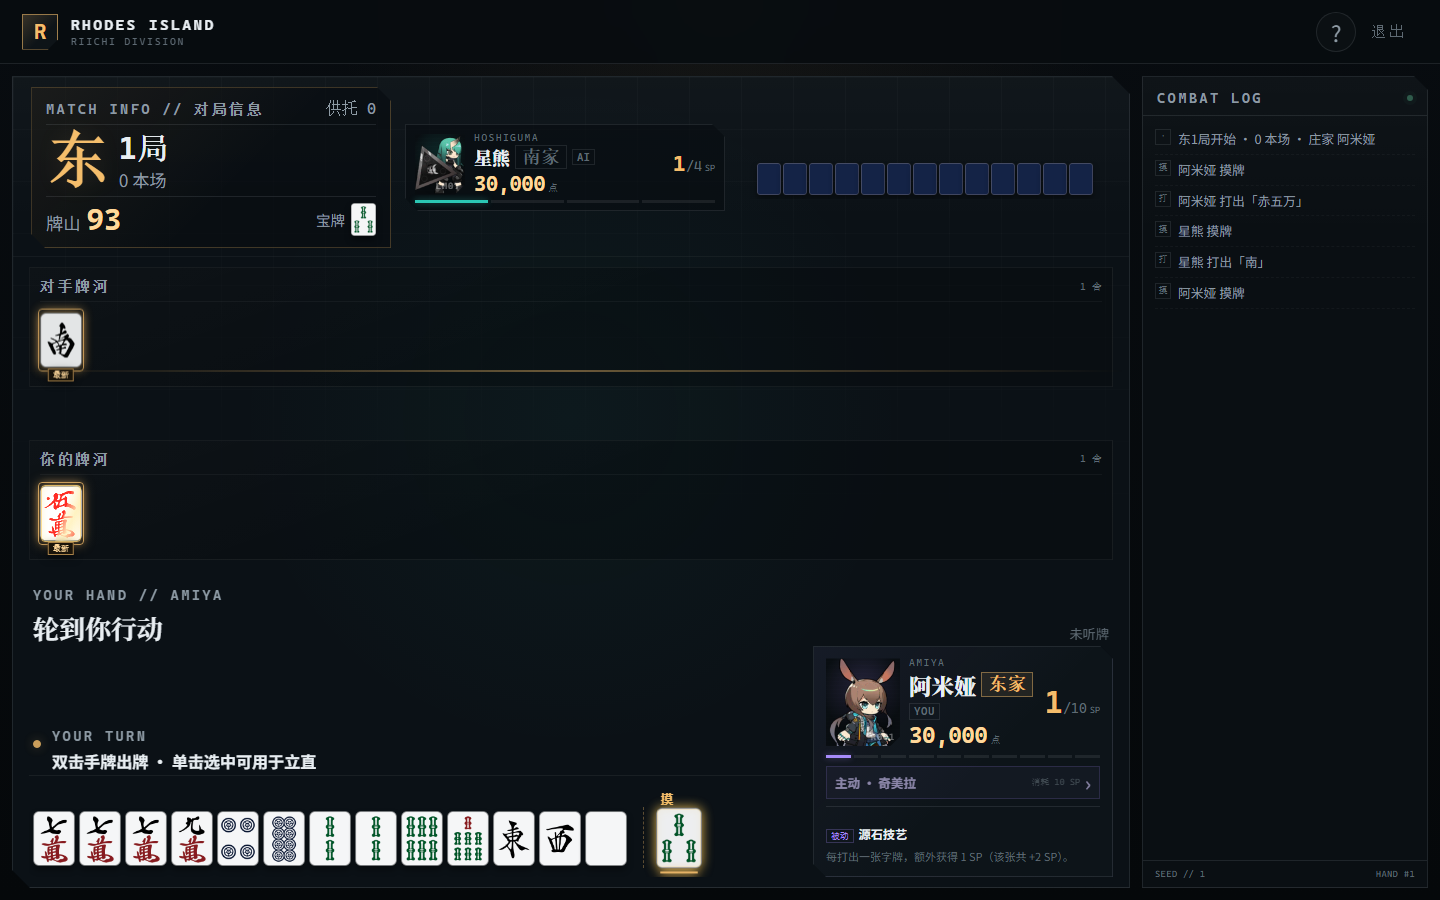
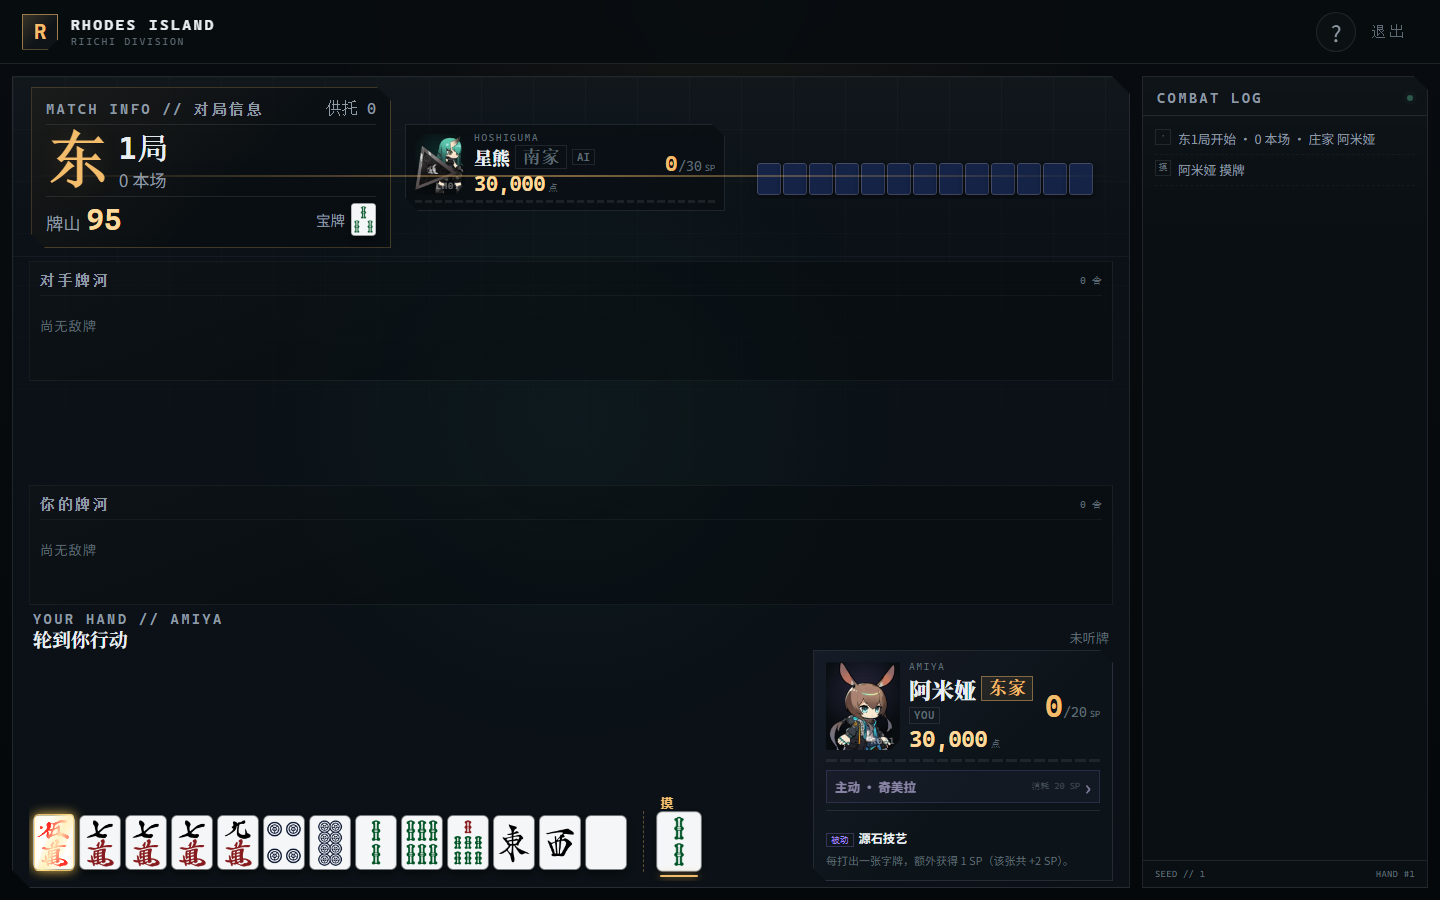
牌河修复+README修复

diff --git a/src/ui/Table.tsx b/src/ui/Table.tsx
@@ -146,6 +146,22 @@ export function Table({
   const riichiCandidates = humanTurn
     ? legalDiscards.filter((tile) => canDeclareRiichi(state, 0, tile))
     : [];
+  const hasHandActions =
+    reaction !== null ||
+    riichiMode ||
+    (humanTurn &&
+      (tsumo !== null ||
+        riichiCandidates.length > 0 ||
+        ankanOptions.length > 0 ||
+        kakanOptions.length > 0 ||
+        nineReady));
+  const aiRiverRows = Math.ceil(ai.river.length / 20);
+  const humanRiverRows = Math.ceil(human.river.length / 20);
+  const riverRows = aiRiverRows + humanRiverRows;
+  const heavyRivers =
+    Math.max(aiRiverRows, humanRiverRows) >= 4 ||
+    riverRows > 4 ||
+    (Math.max(aiRiverRows, humanRiverRows) >= 3 && hasHandActions);
   const tenpai = getPlayerTenpai(state, 0);
   const dora = getRevealedDora(state);
   const [hoverTile, setHoverTile] = useState<TileType | null>(null);
@@ -215,7 +231,7 @@ export function Table({
       </header>
 
       <main className="table-layout">
-        <section className="table-surface">
+        <section className={`table-surface ${heavyRivers ? 'table-surface--heavy-rivers' : ''}`}>
           <div className="table-scanline" aria-hidden="true" />
           <div className="opponent-zone">
             <section className="match-info-panel" aria-label="对局信息">
@@ -280,10 +296,10 @@ export function Table({
 
           <div className="player-zone">
             <div className="player-meta-row">
-              <div className="player-title">
+              <div className="player-title" title={statusText}>
                 <span className="micro-label">YOUR HAND // {human.operator.toUpperCase()}</span>
-                <div className="player-title-line">
-                  <strong>{humanTurn ? '轮到你行动' : '等待对家'}</strong>
+                <div className="player-status-inline">
+                  <strong>{humanTurn ? '轮到你行动' : reaction ? '可以响应' : '等待对家'}</strong>
                   <StatusChips state={state} />
                 </div>
               </div>
@@ -316,18 +332,9 @@ export function Table({
 
             <div className="player-main">
               <div className="hand-cluster">
-                <div className={`hand-action-row ${reaction ? 'is-reaction' : ''}`}>
-                  <div className="command-status">
-                    <span className={`status-light ${humanTurn ? 'is-live' : ''} ${reaction ? 'is-alert' : ''}`} />
-                    <div>
-                      <span className="micro-label">
-                        {reaction ? 'REACTION WINDOW' : humanTurn ? 'YOUR TURN' : 'STANDBY'}
-                      </span>
-                      <strong>{statusText}</strong>
-                    </div>
-                  </div>
-
-                  <div className="hand-actions">
+                {hasHandActions && (
+                  <div className={`hand-action-row ${reaction ? 'is-reaction' : ''}`}>
+                    <div className="hand-actions">
                     {reaction ? (
                       <>
                         {reaction.canRon && (
@@ -407,6 +414,7 @@ export function Table({
                     )}
                   </div>
                 </div>
+                )}
 
                 <Hand
                   player={human}

diff --git a/src/tests/state.test.ts b/src/tests/state.test.ts
@@ -1,4 +1,4 @@
-import { describe, expect, it } from 'vitest';
+import { describe, expect, it } from 'vitest';
 import {
   canDeclareRiichi,
   callChi,
@@ -14,7 +14,7 @@ import {
   startNextHand,
   canDeclareNineTerminals,
 } from '../game/state';
-import { activateSkill, validateSkillActivation } from '../game/skills';
+import { activateSkill, spCapFor, validateSkillActivation } from '../game/skills';
 import { getWinningTiles, isTenpai } from '../game/rules';
 import type { GameState, Meld, PlayerIndex, Tile } from '../game/types';
 
@@ -74,9 +74,9 @@ describe('对局状态机与立直', () => {
 
   it('SP 不会超过主动技能消耗上限', () => {
     const state = rig(startGame({ seed: 12, playerOperator: 'amiya' }), 0, [0, 1, 2, 3, 4, 5, 6, 7, 8, 9, 10, 11, 12, 27], 27);
-    state.players[0].sp = 10;
+    state.players[0].sp = spCapFor('amiya');
     const next = discardTile(state, 0, 27);
-    expect(next.players[0].sp).toBe(10);
+    expect(next.players[0].sp).toBe(spCapFor('amiya'));
   });
 
   it('立直支付 1000 点、供托 +1，且立直后只能摸切', () => {
@@ -128,7 +128,7 @@ describe('干员技能', () => {
     );
     const target = t(2, 5);
     state.wall = [t(0, 0), target, ...state.wall.filter((tile) => tile !== target && tile !== t(2, 8))];
-    state.players[0].sp = 10;
+    state.players[0].sp = spCapFor('amiya');
     state.players[0].skillUsed = false;
     const validation = validateSkillActivation(state, 0, { tile: target });
     expect(validation.ok).toBe(true);
@@ -160,7 +160,7 @@ describe('干员技能', () => {
       t(2, 8),
     );
     state.players[0].riichi = true;
-    state.players[0].sp = 10;
+    state.players[0].sp = spCapFor('amiya');
     state.wall = [t(2, 5), ...state.wall];
     expect(validateSkillActivation(state, 0, { tile: t(2, 5) }).ok).toBe(false);
   });
@@ -172,7 +172,7 @@ describe('干员技能', () => {
       [...tenpaiThirteen, t(2, 8)],
       t(2, 8),
     );
-    state.players[0].sp = 10;
+    state.players[0].sp = spCapFor('amiya');
     state.wall = state.wall.filter((tile) => tile !== 5);
     expect(validateSkillActivation(state, 0, { tile: 5 }).ok).toBe(false);
   });
@@ -184,7 +184,7 @@ describe('干员技能', () => {
       [...tenpaiThirteen, t(2, 8)],
       t(2, 8),
     );
-    state.players[0].sp = 4;
+    state.players[0].sp = spCapFor('hoshiguma');
     state = activateSkill(state, 0);
     expect(state.players[0].sp).toBe(0);
     expect(state.players[0].skillUsed).toBe(true);
@@ -199,7 +199,7 @@ describe('干员技能', () => {
       [0, 1, 2, 3, 4, 5, 6, 7, 8, 9, 10, 11, 12, 27],
       27,
     );
-    state.players[0].sp = 4;
+    state.players[0].sp = spCapFor('hoshiguma');
     state = activateSkill(state, 0);
     state.players[0].hand = sorted([0, 0, 2, 3, 4, 5, 6, 7, 8, 9, 10, 11, 12]);
     state.players[1].hand = sorted([0, 1, 2, 3, 4, 5, 6, 7, 8, 9, 10, 11, 12, 0]);
@@ -392,3 +392,4 @@ describe('规则辅助', () => {
     expect(hand.length + melds.length * 3).toBe(14);
   });
 });
+

diff --git a/src/styles.css b/src/styles.css
@@ -5410,3 +5410,81 @@ html.in-game {
     flex-direction: column;
   }
 }
+
+/* =========================================================
+   ROUND 8: compact hand header; tall river fallback
+   ========================================================= */
+
+.player-zone {
+  padding: 2px 16px 6px;
+}
+
+.player-title {
+  display: flex;
+  flex-direction: column;
+  gap: 1px;
+  min-width: 0;
+}
+
+.player-status-inline {
+  display: flex;
+  align-items: center;
+  flex-wrap: wrap;
+  gap: 7px;
+  min-width: 0;
+}
+
+.player-status-inline > strong {
+  font-family: "Noto Serif SC", "Songti SC", serif;
+  font-size: 0.86rem;
+  line-height: 1.15;
+  color: var(--text);
+  white-space: nowrap;
+}
+
+.player-status-inline .status-chips {
+  gap: 3px;
+}
+
+.player-status-inline .chip {
+  font-size: 0.48rem;
+  padding: 1px 4px;
+}
+
+.hand-action-row {
+  min-height: 40px;
+  padding-top: 2px;
+  padding-bottom: 2px;
+}
+
+.hand-action-row .hand-actions {
+  margin-left: auto;
+}
+
+@media (min-width: 1021px) {
+  .center-grid--rivers {
+    gap: 5px;
+    padding-top: 4px;
+    padding-bottom: 4px;
+  }
+
+  .center-grid--rivers .river-grid {
+    padding-top: 5px;
+  }
+}
+
+/* If both rivers become extremely long, let the table grow and the page scroll
+   instead of letting the lower river overlap the hand area. */
+.game-screen:has(.table-surface--heavy-rivers) {
+  height: auto;
+  min-height: 100vh;
+  overflow-y: auto;
+}
+
+.table-surface--heavy-rivers {
+  min-height: calc(100vh - 88px);
+}
+
+.table-surface--heavy-rivers .center-grid--rivers {
+  flex: 0 0 auto;
+}

diff --git a/src/ui/River.tsx b/src/ui/River.tsx
@@ -37,7 +37,7 @@ export function River({ river, label, opponent, hoverTile, onHoverTile, doraTile
               glowing={isDoraOrAka(record.tile, doraTiles)}
               highlighted={hoverTile != null && sameTileKind(hoverTile, record.tile)}
             />
-            {index === river.length - 1 && <span className="river-last-mark">最新</span>}
+            {index === river.length - 1 && <span className="river-last-mark">▲</span>}
           </span>
         ))}
       </div>

diff --git a/README.md b/README.md
@@ -1,4 +1,4 @@
-# 明日雀庄 · 双人立直麻将
+# 明日雀庄 · 双人立直麻将
 
 《明日方舟》主题的 **2 人日本立直麻将网页单机版**。玩家扮演阿米娅或星熊，与另一位干员进行东风场、南风场半庄战。核心特色是每位干员 **1 个主动技能 + 1 个被动技能**，并带有一整套可复现的日麻规则引擎。
 
@@ -8,16 +8,13 @@
 
 ## 界面预览
 
-![开始界面](<img width="1919" height="926" alt="QQ_1793203040663" src="https://github.com/user-attachments/assets/499d650a-aa92-4a5e-990a-9866b534c162" />
-)
+![开始界面](docs/preview-start.png)
 
-![牌桌界面](<img width="1917" height="926" alt="QQ_1793203010463" src="https://github.com/user-attachments/assets/cfeebcfc-b233-4f63-b811-dd338813e397" />
-)
+![牌桌界面](docs/preview-game.png)
 
 ![立直宣言牌与听牌预览](docs/preview-riichi.png)
 
-![和牌牌型、宝牌与右侧结算面板](<img width="1919" height="926" alt="QQ_1793202942572" src="https://github.com/user-attachments/assets/aa68160b-c1d6-4758-8a97-46530547a6dc" />)
-
+![和牌牌型、宝牌与右侧结算面板](docs/preview-result.png)
 
 ![移动端](docs/preview-mobile.png)
 
@@ -59,6 +56,7 @@ npm run preview  # 预览生产包
 - 牌河牌面与手牌同为 42px 宽、4px 间距；宽屏每行 20 张。
 - 手牌、牌河与鸣牌中的实际宝牌 / 赤宝牌带金色闪光动效；暗杠只有中间两张牌面闪光，两端牌背不闪。
 - 结算弹窗改为紧凑排版：和牌人信息移到顶部右侧，删除独立 winner 横条，压缩役种与点数区间距；役种较多时底部按钮仍保持可见。
+- 手牌区标题压缩为单行，删除独立的 STANDBY 状态框；牌河超过两行时自动扩展，极端长牌河下页面滚动而不是与手牌重叠。
 - 鸣牌、和牌取消二次确认：碰、吃、杠、自摸、荣和点击后立即执行。
 - 和牌结算新增完整手牌与副露展示，手牌 / 副露与和牌张分开排列，并逐张标记「宝」「里」「赤」；下方直接显示实际宝牌与里宝牌。
 - 暗杠在鸣牌区按现实麻将显示为【牌背】【牌面】【牌面】【牌背】，不再四张全部牌背。
@@ -87,12 +85,12 @@ npm run preview  # 预览生产包
 
 **阿米娅**
 - 被动「源石技艺」：打出字牌额外 +1 SP
-- 主动「奇美拉」：10 SP，**仅非立直时** 可发动；检索指定牌并替换本巡摸牌，本巡可正常和牌 / 立直，本巡结束后 3 巡只能摸切，不可鸣牌 / 立直
+- 主动「奇美拉」：20 SP，**仅非立直时** 可发动；检索指定牌并替换本巡摸牌，本巡可正常和牌 / 立直，本巡结束后 3 巡只能摸切，不可鸣牌 / 立直
 - SP 上限 10，跨局保留，每局限一次
 
 **星熊**
 - 被动「荆棘」：自身支付点数时，和牌者将支付额的 10% 交入场供
-- 主动「力之锯」：4 SP，本局对手和牌番数 −1（最低 1 番，役满不受影响），自身本局不可鸣牌
+- 主动「力之锯」：30 SP，本局对手和牌番数 −1（最低 1 番，役满不受影响），自身本局不可鸣牌
 
 > **检索时点说明**：技能在「摸牌后、出牌前」发动。检索牌会立即替换本巡摸牌（原摸牌回到牌山顶部），保证检索牌确实在本巡入手；本巡操作不受限制，本巡结束才启动 3 巡摸切代价。
 
@@ -211,6 +209,8 @@ Tests      50 passed
 - 3 / 4 人麻将与联机
 - 正式立绘、语音、牌桌动画、音效
 - 牌谱保存 / 回放 / 详细 AI 难度分级
+
+
 
 
 
